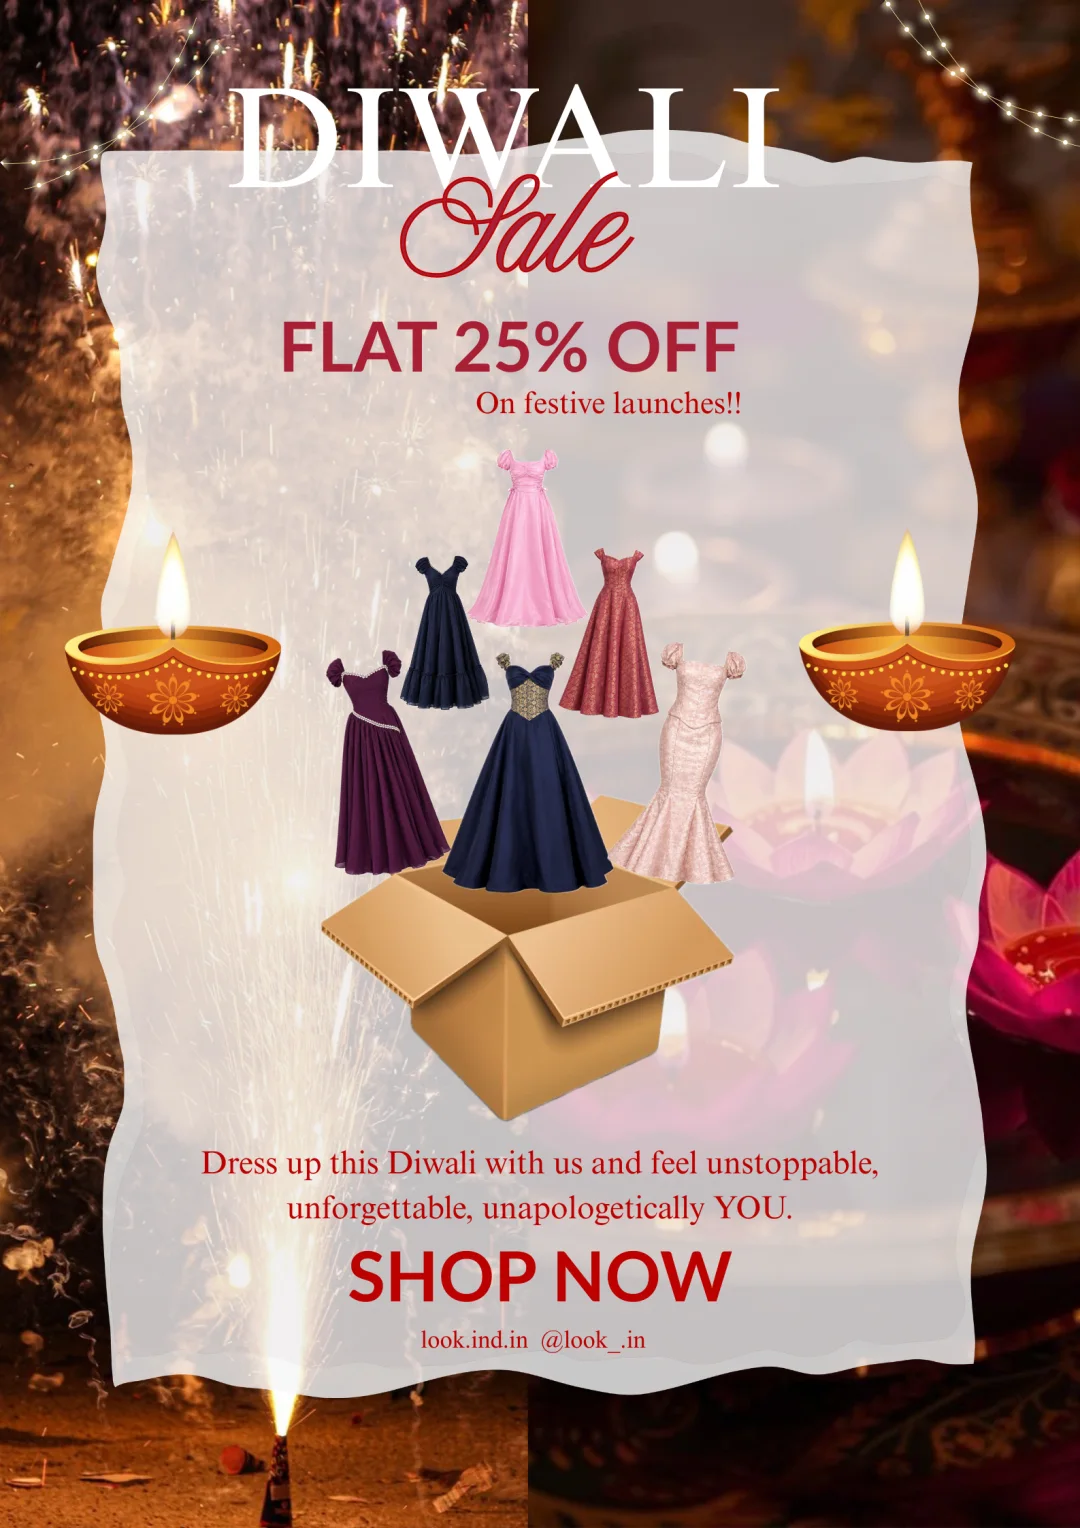
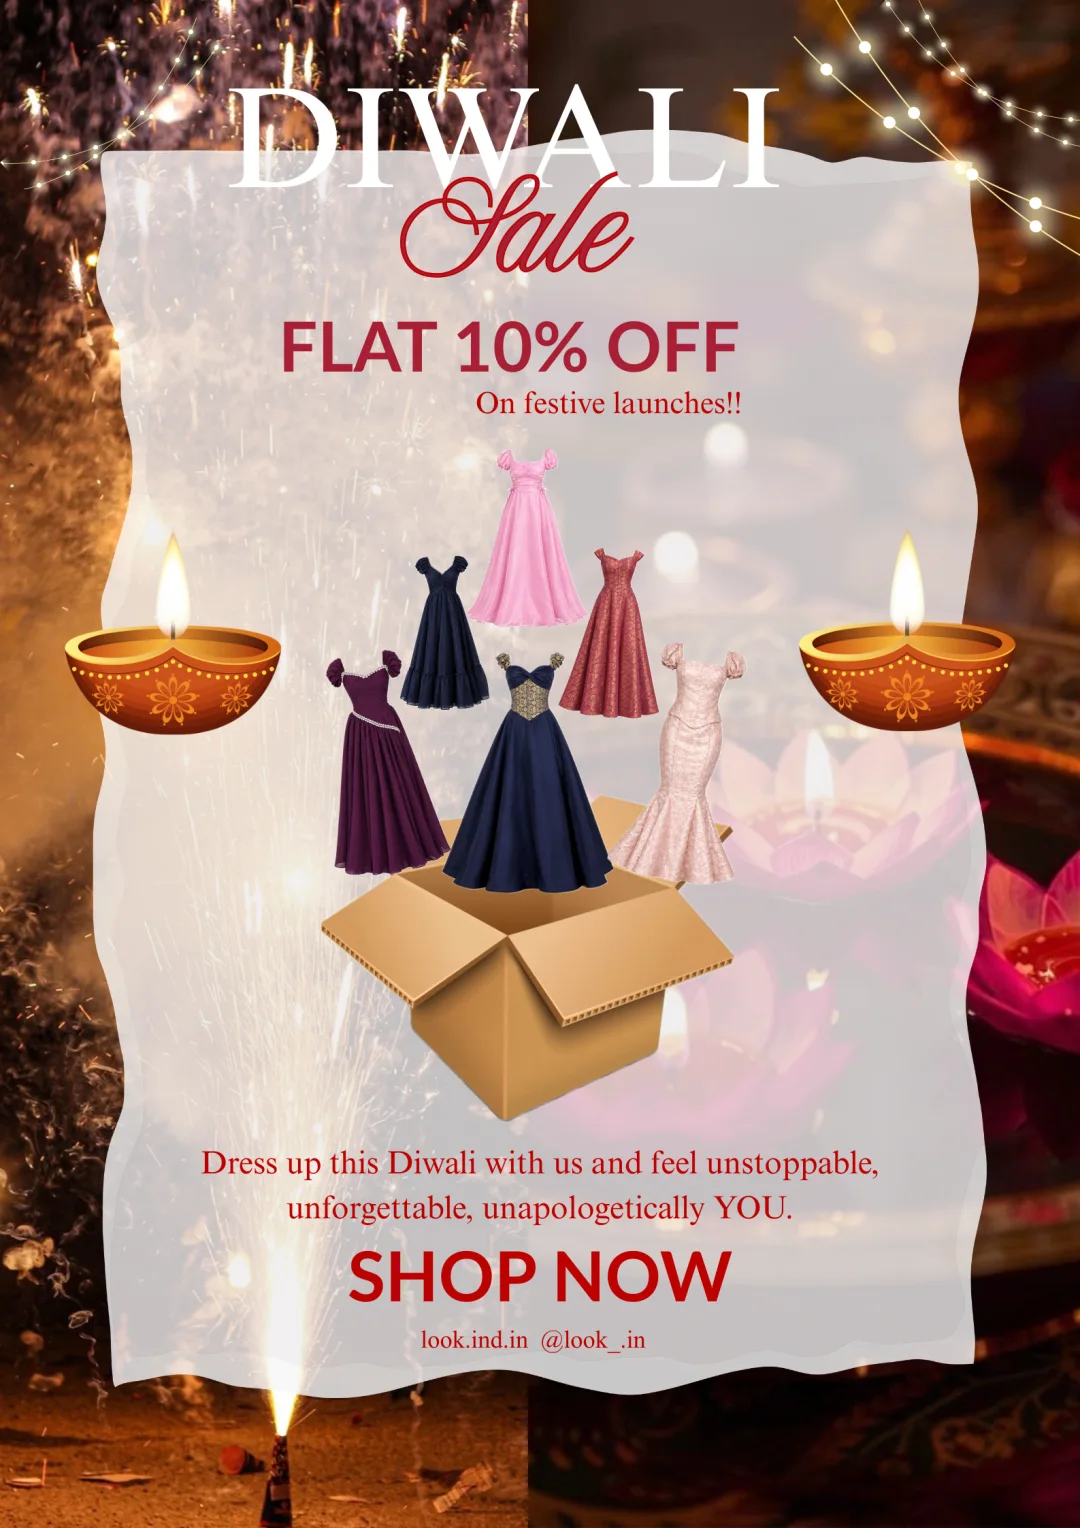
Diwali poster: 10% artwork and a tap-to-apply code band under it

Changed region(s): [[0.7333, 0.0, 0.9167, 0.123], [0.9167, 0.123, 1.0, 0.1846], [0.4278, 0.2153, 0.4889, 0.2461]]

diff --git a/src/components/LaunchOfferPopup.tsx b/src/components/LaunchOfferPopup.tsx
@@ -1,12 +1,14 @@
-import { useEffect, useState } from "react";
+import { useEffect, useRef, useState } from "react";
 import { Link } from "react-router-dom";
+import { Check, Tag } from "lucide-react";
 import Fireworks from "@/components/Fireworks";
 import Modal from "@/components/ui/Modal";
+import { useApplyPromo, type PromoApplyResult } from "@/hooks/useApplyPromo";
 import { usePromo } from "@/hooks/usePromo";
 /* The client's Diwali Sale artwork, shipped as the picture it is. It's a
    portrait poster, so unlike the old 16:9 launch artwork it fits a phone
    without letterboxing. WebP at 720 and 1080px wide (the dialog draws it at
-   most ~480px, so 1080 covers a 2x screen): 91KB and 151KB, against the 3MB PNG
+   most ~480px, so 1080 covers a 2x screen): 92KB and 153KB, against the 3MB PNG
    it arrived as, which matters because this greets every visit. */
 import poster720 from "@/assets/diwali-poster-720.webp";
 import poster1080 from "@/assets/diwali-poster-1080.webp";
@@ -14,15 +16,22 @@ import poster1080 from "@/assets/diwali-poster-1080.webp";
 /** Long enough for the page underneath to have painted, short enough that it
  *  still reads as the greeting it is rather than as an interruption. */
 const OPEN_DELAY_MS = 800;
+/** How long the code chip holds its confirmation before going back to the
+ *  code. */
+const TAKEN_MS = 2400;
+/** Height of the code band under the artwork. The poster gives up exactly
+ *  this much height on a short screen so the pair still fits without a
+ *  scrollbar; the width cap and `sizes` below both subtract it. */
+const BAND_PX = 64;
 /** The artwork's own proportions (1587 x 2245). */
 const RATIO = 1587 / 2245;
 const SRCSET = `${poster720} 720w, ${poster1080} 1080w`;
 /** Matches the dialog's width cap below: 480px, or narrower when the screen is
  *  too short to fit the poster's full height. */
-const SIZES = `min(480px, calc(100vw - 32px), calc(88dvh * ${RATIO.toFixed(4)}))`;
+const SIZES = `min(480px, calc(100vw - 32px), calc((88dvh - ${BAND_PX}px) * ${RATIO.toFixed(4)}))`;
 /** The words in the artwork, for anyone who can't see it. */
 const POSTER_ALT =
-  "Diwali Sale. Flat 25% off on festive launches. Dress up this Diwali with us and feel unstoppable, unforgettable, unapologetically you. Shop now.";
+  "Diwali Sale. Flat 10% off on festive launches. Dress up this Diwali with us and feel unstoppable, unforgettable, unapologetically you. Shop now.";
 
 interface Props {
   /** Fired once the poster is out of the way, however it left — the newsletter
@@ -47,6 +56,9 @@ export default function LaunchOfferPopup({ onDismiss }: Props) {
   const promo = usePromo();
   const [open, setOpen] = useState(false);
   const [sparkling, setSparkling] = useState(false);
+  const { apply, busy } = useApplyPromo(promo);
+  const [taken, setTaken] = useState<PromoApplyResult | null>(null);
+  const takenTimer = useRef(0);
   const showPoster = Boolean(promo?.surfaces.poster);
 
   /* Opens once BOTH the delay has passed and the artwork is decoded, so the
@@ -71,6 +83,8 @@ export default function LaunchOfferPopup({ onDismiss }: Props) {
     };
   }, [showPoster]);
 
+  useEffect(() => () => window.clearTimeout(takenTimer.current), []);
+
   /* After every hook, so the order stays stable while the promo resolves from
      null to a campaign (or stays null, which is how a retired promo and a store
      that has never had one both look). */
@@ -84,15 +98,50 @@ export default function LaunchOfferPopup({ onDismiss }: Props) {
     onDismiss?.();
   };
 
+  /* The chip puts the code on the bag rather than only on the clipboard: a
+     poster that greets a visit almost always finds an empty bag, so "apply"
+     here usually means parking it for the first add-to-cart (useApplyPromo),
+     and the shopper never has to carry it to checkout. It still copies,
+     best-effort, for anyone who wants it elsewhere. */
+  const takeCode = async () => {
+    const result = await apply();
+    if (result === "failed") return;
+    if (result !== "rejected") {
+      try {
+        await navigator.clipboard.writeText(promo.code);
+      } catch {
+        /* Clipboard denied or unavailable. The code is on the bag and on
+           screen either way, so there is nothing to report. */
+      }
+    }
+    setTaken(result);
+    window.clearTimeout(takenTimer.current);
+    takenTimer.current = window.setTimeout(() => setTaken(null), TAKEN_MS);
+  };
+
+  /* Shopify gives the same answer for every reason a code is refused (unknown,
+     expired, minimum not met), so the rejection can't claim to know which. */
+  const takenLabel =
+    taken === "saved"
+      ? "Saved for your bag"
+      : taken === "applied"
+        ? "Applied to your bag"
+        : "Code not accepted";
+
   return (
     <>
       <Modal
         open={open}
         onClose={dismiss}
         label="LOOK Diwali Sale"
-        maxWidth="max-w-[min(480px,calc(88dvh*0.7069))]"
+        maxWidth="max-w-[min(480px,calc((88dvh-64px)*0.7069))]"
       >
-        <Link to={promo.ctaPath} onClick={dismiss} className="block" aria-label={`${POSTER_ALT} Opens the shop.`}>
+        <Link
+          to={promo.ctaPath}
+          onClick={dismiss}
+          className="block"
+          aria-label={`${POSTER_ALT} Opens the shop.`}
+        >
           <img
             src={poster1080}
             srcSet={SRCSET}
@@ -103,14 +152,59 @@ export default function LaunchOfferPopup({ onDismiss }: Props) {
             className="block h-auto w-full"
           />
         </Link>
+        {/* The code, as real text: copyable, read aloud, and one tap from the
+            bag. The artwork doesn't carry it, so it rides underneath. */}
+        <div
+          className="flex items-center justify-center gap-3 bg-[#0b0b0c] px-4"
+          style={{ height: BAND_PX }}
+        >
+          <button
+            type="button"
+            disabled={busy}
+            onClick={() => void takeCode()}
+            aria-label={`Apply discount code ${promo.code} to your bag`}
+            className="group inline-flex items-center gap-2.5 rounded-full border border-dashed border-white/50 px-4 py-2 transition-colors hover:border-white hover:bg-white/5 disabled:opacity-70"
+          >
+            <span className="font-ui text-[10px] tracking-[0.22em] whitespace-nowrap text-white/60 uppercase">
+              {taken ? takenLabel : "Use code"}
+            </span>
+            {!taken && (
+              <span className="font-ui text-[15px] font-medium tracking-[0.1em] whitespace-nowrap text-white">
+                {promo.code}
+              </span>
+            )}
+            {taken && taken !== "rejected" ? (
+              <Check className="size-4 text-white" strokeWidth={2} />
+            ) : (
+              <Tag
+                className="size-4 text-white/60 transition-colors group-hover:text-white"
+                strokeWidth={1.7}
+              />
+            )}
+          </button>
+          <span role="status" className="sr-only">
+            {taken ? takenLabel : ""}
+          </span>
+        </div>
         <button
           type="button"
           onClick={dismiss}
           aria-label="Close"
           className="absolute top-3 right-3 z-10 flex size-9 items-center justify-center rounded-full bg-black/45 text-white backdrop-blur-[2px] transition-colors hover:bg-black/70"
         >
-          <svg width="16" height="16" viewBox="0 0 16 16" fill="none" aria-hidden="true">
-            <path d="M2 2l12 12M14 2L2 14" stroke="currentColor" strokeWidth="1.6" strokeLinecap="round" />
+          <svg
+            width="16"
+            height="16"
+            viewBox="0 0 16 16"
+            fill="none"
+            aria-hidden="true"
+          >
+            <path
+              d="M2 2l12 12M14 2L2 14"
+              stroke="currentColor"
+              strokeWidth="1.6"
+              strokeLinecap="round"
+            />
           </svg>
         </button>
       </Modal>
